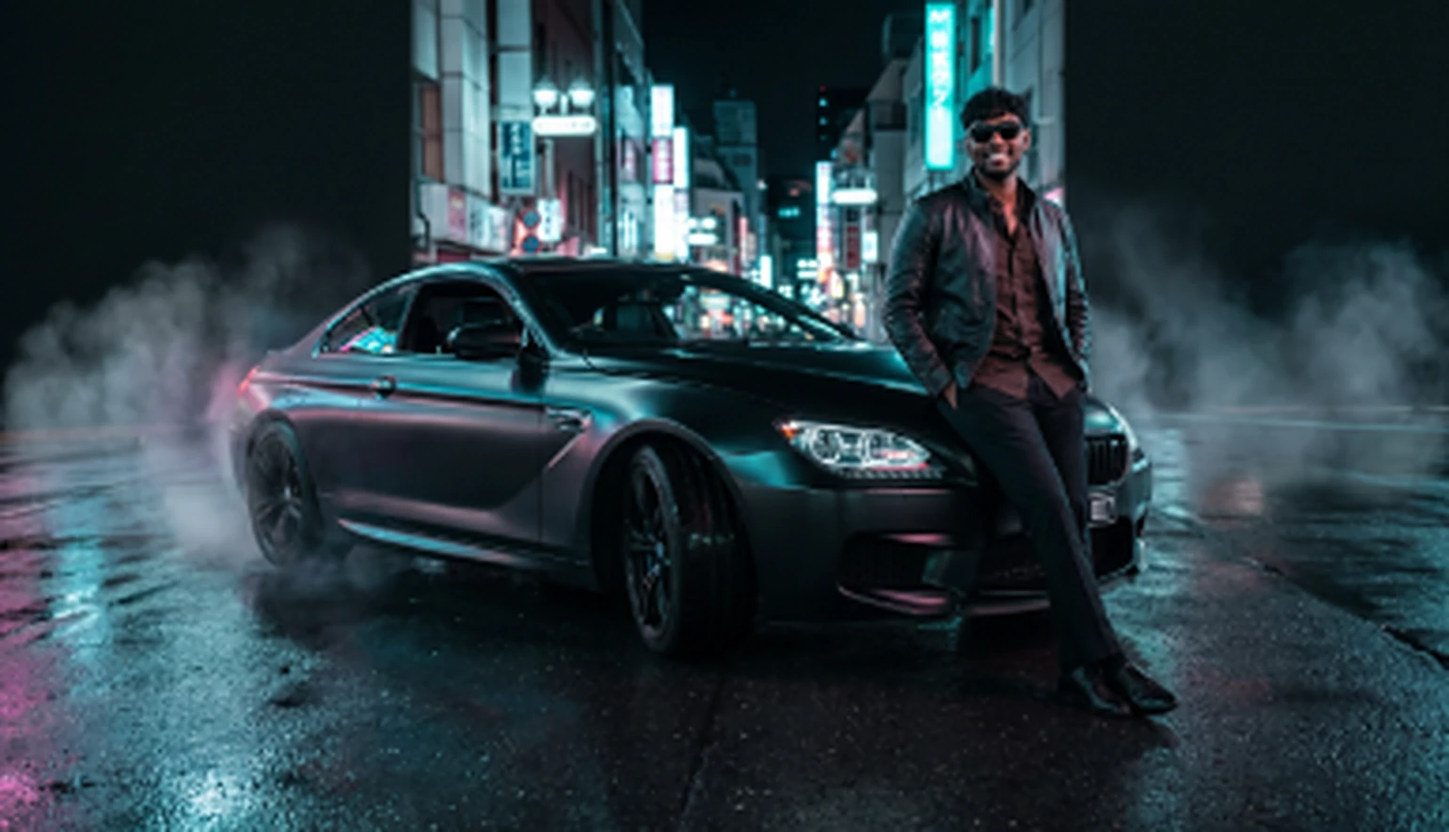
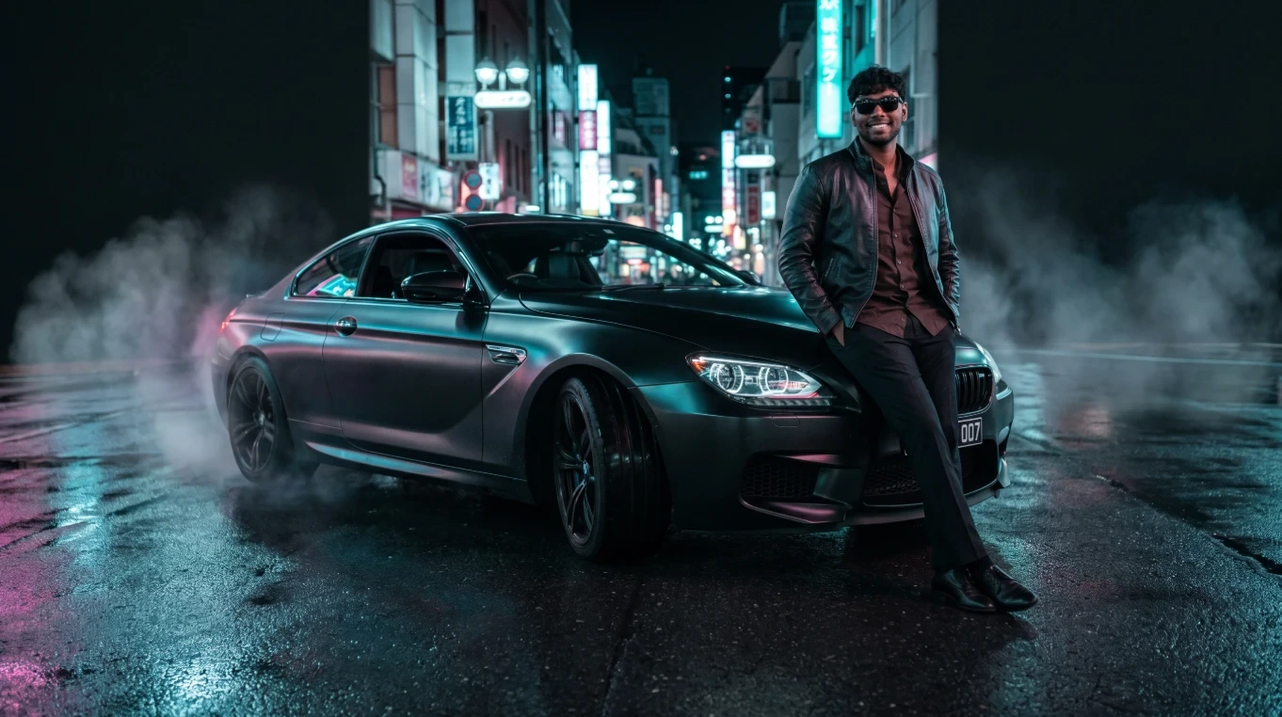
Clear hero photo, Gandi/BTech copy fixes, timeline tags, project and toolkit action redesign
- Hero uses the full-resolution 1362x762 photo with no blur or dimming and a longer eased left scrim
- Legal name spelled Gandi; page title, meta description and image alt carry it; BSc -> BTech (profile, bio, design canvas)
- Timeline entries without confirmed dates show a status tag instead of a dash
- Project cards: area/title/description/destination hierarchy, labelled as schematics, corner-cut action key with sweep and arrow
- Toolkit evidence lines link to the real repos; full-garage toggle and fleet links restyled

Claude-Session: https://claude.ai/code/session_01495NL3h3EDxXLUXdFnJz5N

diff --git a/src/index.css b/src/index.css
@@ -86,7 +86,7 @@ a { color: inherit; }
 .hero-portrait {
   --wipe: 1.6s;
   --asphalt: 7, 9, 13; /* var(--asphalt-950) as rgb, for the fades */
-  position: absolute; z-index: 2; right: 0; bottom: 0; height: 100%; aspect-ratio: 385 / 221; pointer-events: none; opacity: 0;
+  position: absolute; z-index: 2; right: 0; bottom: 0; height: 100%; aspect-ratio: 1362 / 762; pointer-events: none; opacity: 0;
   -webkit-mask-image: linear-gradient(100deg, #000 0 36%, transparent 66%); mask-image: linear-gradient(100deg, #000 0 36%, transparent 66%);
   -webkit-mask-size: 300% 100%; mask-size: 300% 100%;
   -webkit-mask-position: 100% 0; mask-position: 100% 0; /* fully covered; the transition slides the soft edge across */
@@ -97,7 +97,7 @@ a { color: inherit; }
 }
 .hero-portrait.is-fast { --wipe: 0.45s; }
 .portrait-move { position: absolute; inset: 0; transform-origin: 70% 40%; transform: translate3d(calc(var(--px, 0) * -12px), calc(var(--py, 0) * -7px), 0) scale(1.03); transition: transform 900ms var(--ease-brake); }
-.hero-portrait img { display: block; width: 100%; height: 100%; object-fit: cover; object-position: 70% 30%; opacity: 0; filter: saturate(0.94) contrast(1.05) brightness(0.97); }
+.hero-portrait img { display: block; width: 100%; height: 100%; object-fit: cover; object-position: 70% 30%; opacity: 0; filter: contrast(1.03); } /* the photo is shown as shot: no blur, no dimming */
 .hero-portrait.is-loaded img { opacity: 1; transition: opacity 500ms linear; }
 .hero-portrait.is-revealed img { animation: portrait-settle 2.6s var(--ease-brake) both; } /* a slow push-in that comes to rest */
 @keyframes portrait-settle { from { transform: scale(1.06); } to { transform: scale(1); } }
@@ -107,11 +107,11 @@ a { color: inherit; }
 .portrait-fade {
   position: absolute; inset: 0;
   background:
-    linear-gradient(to bottom, rgb(var(--asphalt)) 0, rgba(var(--asphalt), 0) 24%),
-    linear-gradient(to top, rgb(var(--asphalt)) 0, rgba(var(--asphalt), 0) 26%),
-    linear-gradient(to right, rgb(var(--asphalt)) 0, rgba(var(--asphalt), 0.82) 6%, rgba(var(--asphalt), 0.5) 30%, rgba(var(--asphalt), 0) 52%),
-    linear-gradient(to left, rgba(var(--asphalt), 0.7) 0, rgba(var(--asphalt), 0) 12%),
-    radial-gradient(120% 95% at 70% 38%, transparent 55%, rgba(var(--asphalt), 0.55) 100%);
+    linear-gradient(to bottom, rgb(var(--asphalt)) 0, rgba(var(--asphalt), 0) 12%),
+    linear-gradient(to top, rgba(var(--asphalt), 0.85) 0, rgba(var(--asphalt), 0) 16%),
+    /* a long, eased scrim for the copy: there is no visible seam where the text panel ends and the photo begins */
+    linear-gradient(to right, rgb(var(--asphalt)) 0, rgba(var(--asphalt), 0.9) 8%, rgba(var(--asphalt), 0.72) 18%, rgba(var(--asphalt), 0.46) 30%, rgba(var(--asphalt), 0.22) 42%, rgba(var(--asphalt), 0.07) 52%, rgba(var(--asphalt), 0) 60%),
+    linear-gradient(to left, rgba(var(--asphalt), 0.5) 0, rgba(var(--asphalt), 0) 8%);
 }
 /* a band of smoke rides the soft edge of the reveal */
 .hero-mist {
@@ -159,9 +159,8 @@ a { color: inherit; }
   .portrait-move { transform-origin: 71% 30%; }
   .portrait-fade {
     background:
-      linear-gradient(to bottom, rgb(var(--asphalt)) 0, rgba(var(--asphalt), 0) 14%),
-      linear-gradient(to top, rgb(var(--asphalt)) 0, rgba(var(--asphalt), 0.85) 14%, rgba(var(--asphalt), 0) 52%),
-      radial-gradient(120% 90% at 68% 40%, transparent 55%, rgba(var(--asphalt), 0.5) 100%);
+      linear-gradient(to bottom, rgb(var(--asphalt)) 0, rgba(var(--asphalt), 0) 10%),
+      linear-gradient(to top, rgb(var(--asphalt)) 0, rgba(var(--asphalt), 0.8) 12%, rgba(var(--asphalt), 0) 40%);
   }
   .hero-mist { top: 14%; height: 50%; }
   .hero-copy { right: 16px; bottom: 64px; max-width: none; gap: var(--space-3); }
@@ -229,12 +228,25 @@ a { color: inherit; }
 .toolkit { display: grid; grid-template-columns: repeat(4, 1fr); gap: var(--space-8); }
 @media (max-width: 900px) { .toolkit { grid-template-columns: repeat(2, 1fr); } }
 @media (max-width: 480px) { .toolkit { grid-template-columns: 1fr; } }
-.toolgroup-label { font: 600 11px var(--font-mono); letter-spacing: 0.14em; text-transform: uppercase; color: var(--chalk-400); margin-bottom: var(--space-3); }
+.toolgroup-label { display: flex; justify-content: space-between; align-items: baseline; font: 600 11px var(--font-mono); letter-spacing: 0.14em; text-transform: uppercase; color: var(--chalk-400); margin-bottom: var(--space-3); padding-bottom: var(--space-2); border-bottom: 1px solid var(--asphalt-700); }
+.toolgroup-count { color: var(--signal-red); }
 .toolgroup ul { list-style: none; margin: 0; padding: 0; display: grid; gap: var(--space-2); }
 .tool { display: grid; padding: var(--space-3) var(--space-4); background: var(--asphalt-900); border: 1px solid var(--asphalt-700); font-weight: 800; }
-.tool small { font: 500 11px var(--font-mono); letter-spacing: 0.04em; color: var(--chalk-400); max-height: 0; overflow: hidden; transition: max-height var(--dur-ui) var(--ease-brake); }
-.tool:hover, .tool:focus-visible { border-color: var(--drift-red); }
-.tool:hover small, .tool:focus-visible small { max-height: 20px; }
+.tool { gap: 6px; }
+.tool:hover, .tool:focus-within { border-color: var(--drift-red); }
+/* the evidence line: which real projects used this tool, each one a link to its code */
+.tool-used { display: flex; flex-wrap: wrap; align-items: center; gap: 4px 6px; font: 500 11px/1.2 var(--font-mono); letter-spacing: 0.04em; color: var(--chalk-400); }
+.tool-used > span:first-child { margin-right: 2px; }
+.evidence {
+  display: inline-flex; align-items: center; gap: 4px; padding: 3px 7px; min-height: 24px; color: var(--chalk-100); text-decoration: none;
+  background: linear-gradient(90deg, rgba(225, 6, 0, 0.22), rgba(225, 6, 0, 0.22)) no-repeat 0 100% / 0 2px, var(--asphalt-800);
+  border: 1px solid var(--asphalt-500);
+  transition: background-size 220ms var(--ease-brake), border-color var(--dur-fast) var(--ease-brake), color var(--dur-fast) var(--ease-brake), transform var(--dur-fast) var(--ease-brake);
+}
+.evidence:hover { background-size: 100% 2px; border-color: var(--chalk-400); }
+.evidence:active { transform: translateY(1px); border-color: var(--drift-red); }
+.evidence .arrow { transition: transform 200ms var(--ease-brake); }
+.evidence:hover .arrow { transform: translate(1px, -1px); }
 
 /* track */
 .track { list-style: none; margin: 0; padding: 0 0 0 var(--space-8); position: relative; display: grid; gap: var(--space-4); }
@@ -246,6 +258,7 @@ a { color: inherit; }
 .milestone::before { content: ""; position: absolute; left: calc(-1 * var(--space-8) + 2px); top: 30px; width: 12px; height: 12px; transform: rotate(45deg); background: var(--asphalt-950); border: 2px solid var(--drift-red); }
 .milestone:hover { border-color: var(--drift-red); box-shadow: var(--glow-red); }
 .milestone-year { grid-row: span 3; font: 700 32px/1 var(--font-mono); font-variant-numeric: tabular-nums; }
+.milestone-year.is-tag { align-self: start; padding-top: 6px; font: 600 12px/1.3 var(--font-mono); letter-spacing: 0.14em; text-transform: uppercase; color: var(--chalk-400); }
 .milestone-corner { font: 600 11px var(--font-mono); letter-spacing: 0.14em; color: var(--signal-red); }
 .milestone h3 { margin: 4px 0 0; font: 800 26px/1.1 var(--font-display); text-transform: uppercase; }
 .milestone p { margin: 6px 0 0; font-size: 15px; line-height: 23px; color: var(--chalk-400); }
@@ -255,7 +268,7 @@ a { color: inherit; }
 .bays { display: grid; grid-template-columns: repeat(3, 1fr); gap: var(--space-8); }
 @media (max-width: 1000px) { .bays { grid-template-columns: repeat(2, 1fr); } }
 @media (max-width: 640px) { .bays { grid-template-columns: 1fr; } }
-.bay { position: relative; display: block; overflow: hidden; background: var(--asphalt-900); border: 1px solid var(--asphalt-700); border-radius: var(--radius-md); text-decoration: none; }
+.bay { position: relative; display: flex; flex-direction: column; overflow: hidden; background: var(--asphalt-900); border: 1px solid var(--asphalt-700); border-radius: var(--radius-md); text-decoration: none; }
 .is-in .bay:hover, .is-in .bay:focus-visible { transform: translateY(-6px); box-shadow: var(--lift); border-color: var(--asphalt-500); }
 .bay-media { position: relative; aspect-ratio: 16 / 10; background: var(--asphalt-800); overflow: hidden; }
 .bay-media::after { content: ""; position: absolute; inset: 0; background: linear-gradient(180deg, transparent 40%, rgba(7, 9, 13, 0.9)); }
@@ -268,11 +281,55 @@ a { color: inherit; }
 .art .c { fill: var(--signal-amber); }
 .art .bf { fill: var(--asphalt-700); } .art .cf { fill: var(--drift-red); } .art .gf { fill: var(--asphalt-700); }
 .art text { fill: var(--chalk-400); font: 500 11px var(--font-mono); letter-spacing: 0.14em; }
-.bay-body { padding: var(--space-6); display: grid; gap: var(--space-2); }
+.bay-body { flex: 1; padding: var(--space-6); display: flex; flex-direction: column; gap: var(--space-2); }
 .bay-title { margin: 0; font: 800 40px/1 var(--font-display); text-transform: uppercase; }
-.bay-pitch { margin: 0; font-size: 15px; line-height: 23px; color: var(--chalk-400); }
-.bay-foot { display: flex; justify-content: space-between; margin-top: var(--space-2); font: 500 11px var(--font-mono); letter-spacing: 0.14em; text-transform: uppercase; color: var(--chalk-400); }
-.bay-foot b { color: var(--signal-red); font-weight: 600; }
+.bay-pitch { margin: 0 0 var(--space-3); font-size: 15px; line-height: 23px; color: var(--chalk-400); }
+.bay-note { position: absolute; left: 12px; bottom: 10px; z-index: 1; font: 500 10px var(--font-mono); letter-spacing: 0.14em; text-transform: uppercase; color: var(--chalk-400); opacity: 0.8; }
+.bay-area { font: 600 11px var(--font-mono); letter-spacing: 0.14em; text-transform: uppercase; color: var(--signal-red); }
+.bay-title { margin-top: 2px; }
+.bay-foot { display: flex; justify-content: space-between; align-items: center; gap: var(--space-3); margin-top: auto; padding-top: var(--space-4); border-top: 1px solid var(--asphalt-700); }
+.bay-repo { min-width: 0; overflow: hidden; text-overflow: ellipsis; white-space: nowrap; font: 500 11px var(--font-mono); letter-spacing: 0.04em; color: var(--chalk-400); }
+
+/* project action: an outlined, corner-cut instrument key (quieter than the solid red hero action). A red fill sweeps in from the left. */
+.bay-action {
+  position: relative; isolation: isolate; flex: none; display: inline-flex; align-items: center; gap: 8px; padding: 9px 14px 9px 16px; overflow: hidden;
+  font: 800 12px/16px var(--font-body); letter-spacing: 0.1em; text-transform: uppercase; color: var(--chalk-100);
+  background: var(--asphalt-950); box-shadow: inset 0 0 0 1px var(--asphalt-500), inset 3px 0 0 var(--drift-red);
+  clip-path: polygon(0 0, calc(100% - 9px) 0, 100% 9px, 100% 100%, 0 100%);
+  transition: box-shadow var(--dur-fast) var(--ease-brake), transform var(--dur-fast) var(--ease-brake);
+}
+.bay-action::before { content: ""; position: absolute; inset: 0; z-index: -1; background: var(--drift-red); transform: scaleX(0); transform-origin: left; transition: transform 240ms var(--ease-brake); }
+.bay-action .arrow { transition: transform 220ms var(--ease-brake); }
+.bay:hover .bay-action, .bay:focus-visible .bay-action { box-shadow: inset 0 0 0 1px var(--drift-red), inset 3px 0 0 var(--drift-red); }
+.bay:hover .bay-action::before, .bay:focus-visible .bay-action::before { transform: scaleX(1); }
+.bay:hover .bay-action .arrow, .bay:focus-visible .bay-action .arrow { transform: translate(2px, -2px); }
+.bay:active .bay-action { transform: translateY(1px); }
+.bay:active .bay-action::before { background: #b80500; }
+.bay:focus-visible { outline: 2px solid var(--livery-sky); outline-offset: 3px; }
+@media (hover: none) { .bay-action::before { transform: scaleX(0.14); } .bay:active .bay-action::before { transform: scaleX(1); } }
+
+/* arrows */
+.arrow { flex: none; fill: none; stroke: currentColor; stroke-width: 1.6; stroke-linecap: round; stroke-linejoin: round; }
+
+/* the full-garage toggle: a gauge-style drawer handle with a count, not a red slab */
+.garage-toggle {
+  display: inline-flex; align-items: center; gap: var(--space-3); padding: 12px 18px 12px 20px; min-height: 44px; cursor: pointer;
+  font: 700 12px/16px var(--font-mono); letter-spacing: 0.14em; text-transform: uppercase; color: var(--chalk-100);
+  background: linear-gradient(var(--asphalt-500), var(--asphalt-500)) no-repeat 0 100% / 0 2px, var(--asphalt-900);
+  border: 1px solid var(--asphalt-500); border-left: 3px solid var(--drift-red);
+  transition: background-size 260ms var(--ease-brake), border-color var(--dur-fast) var(--ease-brake), transform var(--dur-fast) var(--ease-brake);
+}
+.garage-toggle:hover { background-size: 100% 2px; border-color: var(--chalk-400); border-left-color: var(--drift-red); }
+.garage-toggle:active { transform: translateY(1px); background-color: var(--asphalt-800); }
+.garage-toggle .arrow { transition: transform 240ms var(--ease-brake); }
+.garage-toggle:hover .arrow { transform: translateY(2px); }
+.garage-toggle.is-open .arrow { transform: rotate(180deg); }
+.garage-toggle.is-open:hover .arrow { transform: rotate(180deg) translateY(2px); }
+
+.fleet-link { display: inline-flex; align-items: center; gap: 8px; }
+.fleet-link .arrow { color: var(--chalk-400); transition: transform 200ms var(--ease-brake), color var(--dur-fast) var(--ease-brake); }
+.fleet-link:hover .arrow, .fleet-link:focus-visible .arrow { color: var(--signal-red); transform: translate(2px, -2px); }
+.fleet-link:active { transform: translateY(1px); }
 .fleet { margin-top: var(--space-12); }
 .fleet-list { list-style: none; margin: var(--space-6) 0 0; padding: 0; display: grid; grid-template-columns: repeat(2, 1fr); gap: 0 var(--space-8); }
 @media (max-width: 760px) { .fleet-list { grid-template-columns: 1fr; } }

diff --git a/src/content/profile.js b/src/content/profile.js
@@ -3,7 +3,7 @@ export const profile = {
   first: 'Sunny',
   last: 'Aaron',
   // Legal name, shown only as the home-page headline. Everywhere else the site says Sunny / Sunny Aaron.
-  legal: { given: 'Aaron Prakash', family: 'Gandhi' },
+  legal: { given: 'Aaron Prakash', family: 'Gandi' },
   role: 'AI Engineer',
   tagline: 'Controlled chaos. AI systems that stay in line when things go sideways.',
   chips: ['AI Engineer', 'AI Security', 'MLOps'],
@@ -18,11 +18,11 @@ export const profile = {
     ['Class', 'AI Engineer · AI Security · MLOps'],
     ['Base', 'Belfast, NI'],
     ['Training', 'MSc Artificial Intelligence, Ulster University'],
-    ['Background', 'Computer Science and Cybersecurity'],
+    ['Background', 'BTech, Computer Science and Cybersecurity'],
     ['Fuel', 'Football and biriyani'],
   ],
   bio: [
-    "I'm an AI postgraduate at Ulster University with a foundation in Computer Science and Cybersecurity. I build real-world things with machine learning, data and modern software.",
+    "I'm an AI postgraduate at Ulster University with a BTech foundation in Computer Science and Cybersecurity. I build real-world things with machine learning, data and modern software.",
     'My work spans intelligent agents, ML systems, AI infrastructure and security. I like combining LLMs, retrieval, tools and proper engineering pipelines into AI products that people can actually use.',
     "Outside of tech you'll probably find me watching football or hunting down the best biriyani in town.",
   ],
@@ -35,13 +35,14 @@ export const toolkit = [
   { group: 'Telemetry', tools: [['MLflow', 'CI/CD MLOps'], ['Unity Catalog', 'PulseCity'], ['ROS / Gazebo', 'Warehouse robot'], ['Evaluation', 'Ledger, NRF']] },
 ];
 
-// TODO(Sunny): fill in the years marked null.
+// TODO(Sunny): the two entries with year: null have no confirmed dates anywhere in the project, so they show a status tag instead.
+// Add the real years (and whether the MSc is complete) when you have them; do not guess.
 export const milestones = [
-  { year: null, title: 'BSc Computer Science + Cybersecurity', text: 'The foundation: software, networks and security.' },
+  { year: null, tag: 'Foundation', title: 'BTech Computer Science + Cybersecurity', text: 'The foundation: software, networks and security.' },
   { year: 2024, title: 'Security internship', text: 'Recon and scanning work, later rebuilt as web-security-scanner.' },
-  { year: null, title: 'MSc Artificial Intelligence, Ulster', text: 'Robotics, ML and AI ethics coursework, plus the warehouse robot group project.' },
+  { year: null, tag: 'Postgraduate', title: 'MSc Artificial Intelligence, Ulster', text: 'Robotics, ML and AI ethics coursework, plus the warehouse robot group project.' },
   { year: 2026, title: 'Financial-NRF', text: "Dissertation and paper draft: do LLM reliability scores notice when the source is wrong? Mostly no." },
   { year: 2026, title: 'Tom & Ollie relaunch', text: 'First real client: a storefront for a Belfast cheesemonger.' },
   { year: 2026, title: 'Warden and AEGIS', text: 'AI security agents that only ship a defence after it passes validation.' },
-  { year: 'Next', title: 'The next corner', text: 'AI engineering, AI security or MLOps. Let’s talk.' },
+  { year: null, tag: 'Next', title: 'The next corner', text: 'AI engineering, AI security or MLOps. Let’s talk.' },
 ];

diff --git a/src/sections/Garage.jsx b/src/sections/Garage.jsx
@@ -2,6 +2,7 @@ import { useState } from 'react';
 import { projects } from '../content/projects';
 import SectionHeader from '../components/SectionHeader';
 import useReveal from '../components/useReveal';
+import Arrow from '../components/Arrow';
 
 const BADGE = { PRO: 'badge-pro', COMPETITION: 'badge-competition', SPORT: 'badge-sport', STREET: 'badge-street' };
 
@@ -39,29 +40,36 @@ export default function Garage() {
               <span className={`badge ${BADGE[p.cls]} bay-badge`}>{p.cls}</span>
               <span className="bay-num">BAY {String(i + 1).padStart(2, '0')}</span>
               <Art kind={p.art} stat={p.stat} />
+              <span className="bay-note">Schematic, not a screenshot</span>
             </div>
             <div className="bay-body">
+              <span className="bay-area">{p.area}</span>
               <h3 className="bay-title">{p.title}</h3>
               <p className="bay-pitch">{p.pitch}</p>
               <div className="bay-foot">
-                <span>{p.area}</span>
-                <b>Open the code →</b>
+                <span className="bay-repo">GitHub · {p.repo.split('/').pop()}</span>
+                <span className="bay-action">
+                  Open the code
+                  <Arrow />
+                </span>
               </div>
             </div>
           </a>
         ))}
       </div>
       <div className="fleet">
-        <button className="btn btn-secondary" type="button" aria-expanded={all} onClick={() => setAll((v) => !v)}>
-          {all ? 'Hide the full garage' : `Full garage (${rest.length} more)`}
+        <button className={`garage-toggle ${all ? 'is-open' : ''}`} type="button" aria-expanded={all} onClick={() => setAll((v) => !v)}>
+          <span className="garage-toggle-label">{all ? 'Hide the full garage' : `Full garage (${rest.length} more)`}</span>
+          <Arrow kind="down" />
         </button>
         {all && (
           <ul className="fleet-list">
             {rest.map((p) => (
               <li key={p.slug}>
                 <span className={`badge ${BADGE[p.cls]}`}>{p.cls}</span>
-                <a href={p.repo} target="_blank" rel="noreferrer">
+                <a className="fleet-link" href={p.repo} target="_blank" rel="noreferrer">
                   {p.title}
+                  <Arrow />
                 </a>
                 <span className="fleet-area">{p.area}</span>
                 <p>{p.pitch}</p>

diff --git a/src/sections/PitCrew.jsx b/src/sections/PitCrew.jsx
@@ -1,4 +1,6 @@
 import { profile, toolkit } from '../content/profile';
+import { evidenceRepo } from '../content/projects';
+import Arrow from '../components/Arrow';
 import SectionHeader from '../components/SectionHeader';
 import useReveal from '../components/useReveal';
 
@@ -38,12 +40,28 @@ export default function PitCrew() {
       <div className="toolkit">
         {toolkit.map((g, gi) => (
           <div key={g.group} className="toolgroup">
-            <div className="toolgroup-label">{g.group}</div>
+            <div className="toolgroup-label">
+              <span>{g.group}</span>
+              <span className="toolgroup-count">{String(g.tools.length).padStart(2, '0')}</span>
+            </div>
             <ul>
               {g.tools.map(([name, used], i) => (
-                <li key={name} className="tool" tabIndex={0} style={{ '--r': `${((gi * 4 + i) % 5) - 2}deg` }}>
+                <li key={name} className="tool" style={{ '--r': `${((gi * 4 + i) % 5) - 2}deg` }}>
                   {name}
-                  <small>Used in: {used}</small>
+                  <small className="tool-used">
+                    <span>Used in:</span>
+                    {used.split(', ').map((alias) => {
+                      const repo = evidenceRepo(alias);
+                      return repo ? (
+                        <a key={alias} className="evidence" href={repo} target="_blank" rel="noreferrer">
+                          {alias}
+                          <Arrow />
+                        </a>
+                      ) : (
+                        <span key={alias}>{alias}</span>
+                      );
+                    })}
+                  </small>
                 </li>
               ))}
             </ul>

diff --git a/src/sections/Portrait.jsx b/src/sections/Portrait.jsx
@@ -1,8 +1,8 @@
 import { useEffect, useRef, useState } from 'react';
 import { profile } from '../content/profile';
 
-// The settled hero. public/images/portrait.webp is the photo only (no border, no screenshot bars).
-// To use a higher-resolution original, overwrite that file; keep the same framing (about 16:9, person right of centre).
+// The settled hero. public/images/portrait.webp is the full-resolution photo (1362×762, no border, no screenshot bars).
+// To swap in a different one, overwrite that file; keep about 16:9 framing with the person right of centre.
 const SRC = `${import.meta.env.BASE_URL}images/portrait.webp`;
 
 /**
@@ -33,9 +33,9 @@ export default function Portrait({ revealed, fast, parallax }) {
         <div className="portrait-move" ref={move}>
           <img
             src={SRC}
-            alt={`${profile.first} ${profile.last} in sunglasses and a leather jacket, leaning on a black BMW coupe on a wet, neon-lit street at night, tyre smoke drifting behind`}
-            width="1540"
-            height="884"
+            alt={`${profile.legal.given} ${profile.legal.family} (${profile.first} ${profile.last}) in sunglasses and a leather jacket, leaning on a black BMW coupe on a wet, neon-lit street at night, tyre smoke drifting behind`}
+            width="1362"
+            height="762"
             decoding="async"
             fetchPriority="high"
             onLoad={() => setLoaded(true)}

diff --git a/src/content/projects.js b/src/content/projects.js
@@ -23,3 +23,11 @@ export const projects = [
   { slug: 'password-manager', title: 'Secure Password Manager', cls: 'STREET', area: 'Security', pitch: 'Flask password manager with encryption and 2FA.', repo: gh('secure-password-manager') },
   { slug: 'rl-gridworld', title: 'RL GridWorld', cls: 'STREET', area: 'Reinforcement learning', pitch: 'RL agents learning a GridWorld.', repo: gh('rl-gridworld') },
 ];
+
+// Short names used in the toolkit's "Used in" lines -> project slug, so each skill points at real code.
+const EVIDENCE = {
+  Warden: 'warden', Ledger: 'ledger', NRF: 'financial-nrf', AEGIS: 'aegis', 'llm-eval-redteam': 'llm-eval-redteam', PulseCity: 'pulsecity',
+  'Tom & Ollie': 'tom-and-ollie', 'Fair-FL': 'fair-fl', 'CI/CD MLOps': 'cicd-mlops', 'GitHub agent': 'github-ai-agent', 'Warehouse robot': 'warehouse-robot',
+  'Loan default': 'loan-default', scanner: 'web-security-scanner',
+};
+export const evidenceRepo = (alias) => projects.find((p) => p.slug === EVIDENCE[alias])?.repo;

diff --git a/design/canvas/Track.dc.html b/design/canvas/Track.dc.html
@@ -64,7 +64,7 @@ a:focus-visible,button:focus-visible{outline:2px solid #3fa9f5;outline-offset:3p
 class Component extends DCLogic {
   renderVals() {
     const rows = [
-      ['[YEAR]', 'BSc Computer Science + Cybersecurity', 'The foundation: software, networks and security.'],
+      ['[YEAR]', 'BTech Computer Science + Cybersecurity', 'The foundation: software, networks and security.'],
       ['2024', 'Security internship', 'Recon and scanning work, later rebuilt as web-security-scanner.'],
       ['[YEAR]', 'MSc Artificial Intelligence, Ulster', 'Robotics, ML and AI ethics coursework, plus the warehouse robot group project.'],
       ['2026', 'Financial-NRF', 'Dissertation and paper draft: do LLM reliability scores notice when the source is wrong? Mostly no.'],

diff --git a/index.html b/index.html
@@ -4,8 +4,8 @@
     <meta charset="UTF-8" />
     <link rel="icon" type="image/svg+xml" href="/favicon.svg" />
     <meta name="viewport" content="width=device-width, initial-scale=1.0" />
-    <title>Sunny Aaron: AI Engineer · Portfolio</title>
-    <meta name="description" content="Sunny Aaron, AI engineer in Belfast. AI security, LLM systems and MLOps, told as a drift run." />
+    <title>Aaron Prakash Gandi (Sunny Aaron): AI Engineer · Portfolio</title>
+    <meta name="description" content="Aaron Prakash Gandi, known as Sunny Aaron, AI engineer in Belfast. AI security, LLM systems and MLOps, told as a drift run." />
     <meta name="theme-color" content="#07090d" />
   </head>
   <body>

diff --git a/src/sections/Track.jsx b/src/sections/Track.jsx
@@ -10,7 +10,7 @@ export default function Track() {
       <ol className="track">
         {milestones.map((m, i) => (
           <li key={m.title} className="milestone" style={{ '--i': i }}>
-            <div className="milestone-year">{m.year ?? '—'}</div>
+            <div className={`milestone-year ${m.year ? '' : 'is-tag'}`}>{m.year ?? m.tag}</div>
             <div className="milestone-corner">CORNER {String(i + 1).padStart(2, '0')}</div>
             <h3>{m.title}</h3>
             <p>{m.text}</p>

diff --git a/src/components/Arrow.jsx b/src/components/Arrow.jsx
@@ -1,0 +1,9 @@
+// Small directional marks for the garage and summary actions. Decorative: the label next to them carries the meaning.
+export default function Arrow({ kind = 'out' }) {
+  return (
+    <svg className={`arrow arrow-${kind}`} viewBox="0 0 12 12" width="12" height="12" aria-hidden="true" focusable="false">
+      {kind === 'out' && <path d="M3 9 L9 3 M4.2 3 H9 V7.8" />}
+      {kind === 'down' && <path d="M2.5 4.5 L6 8 L9.5 4.5" />}
+    </svg>
+  );
+}

diff --git a/README.md b/README.md
@@ -29,7 +29,7 @@ npm run dev
 
 ## The portrait
 
-`public/images/portrait.webp` is cut from a screenshot (the photo itself is only about 385×221 px), so it is soft when shown full-bleed. **Replace it with the original photo** for a sharp hero: keep roughly the same framing (about 16:9, the person right of centre). If the new framing differs, adjust `object-position` on `.hero-portrait img` in `src/index.css` (one value for desktop, one in the `max-width: 720px` block for phones).
+`public/images/portrait.webp` is the full-resolution photo (1362×762) shown as shot: no blur filter and no dimming, only a long eased scrim on the left so the copy stays readable and there is no seam between text and picture. To swap it, keep roughly the same framing (about 16:9, the person right of centre) and update the `aspect-ratio` on `.hero-portrait` and the `width`/`height` in `Portrait.jsx`. If the framing differs, adjust `object-position` on `.hero-portrait img` in `src/index.css` (one value for desktop, one in the `max-width: 720px` block for phones).
 
 ## Dev hooks
 
